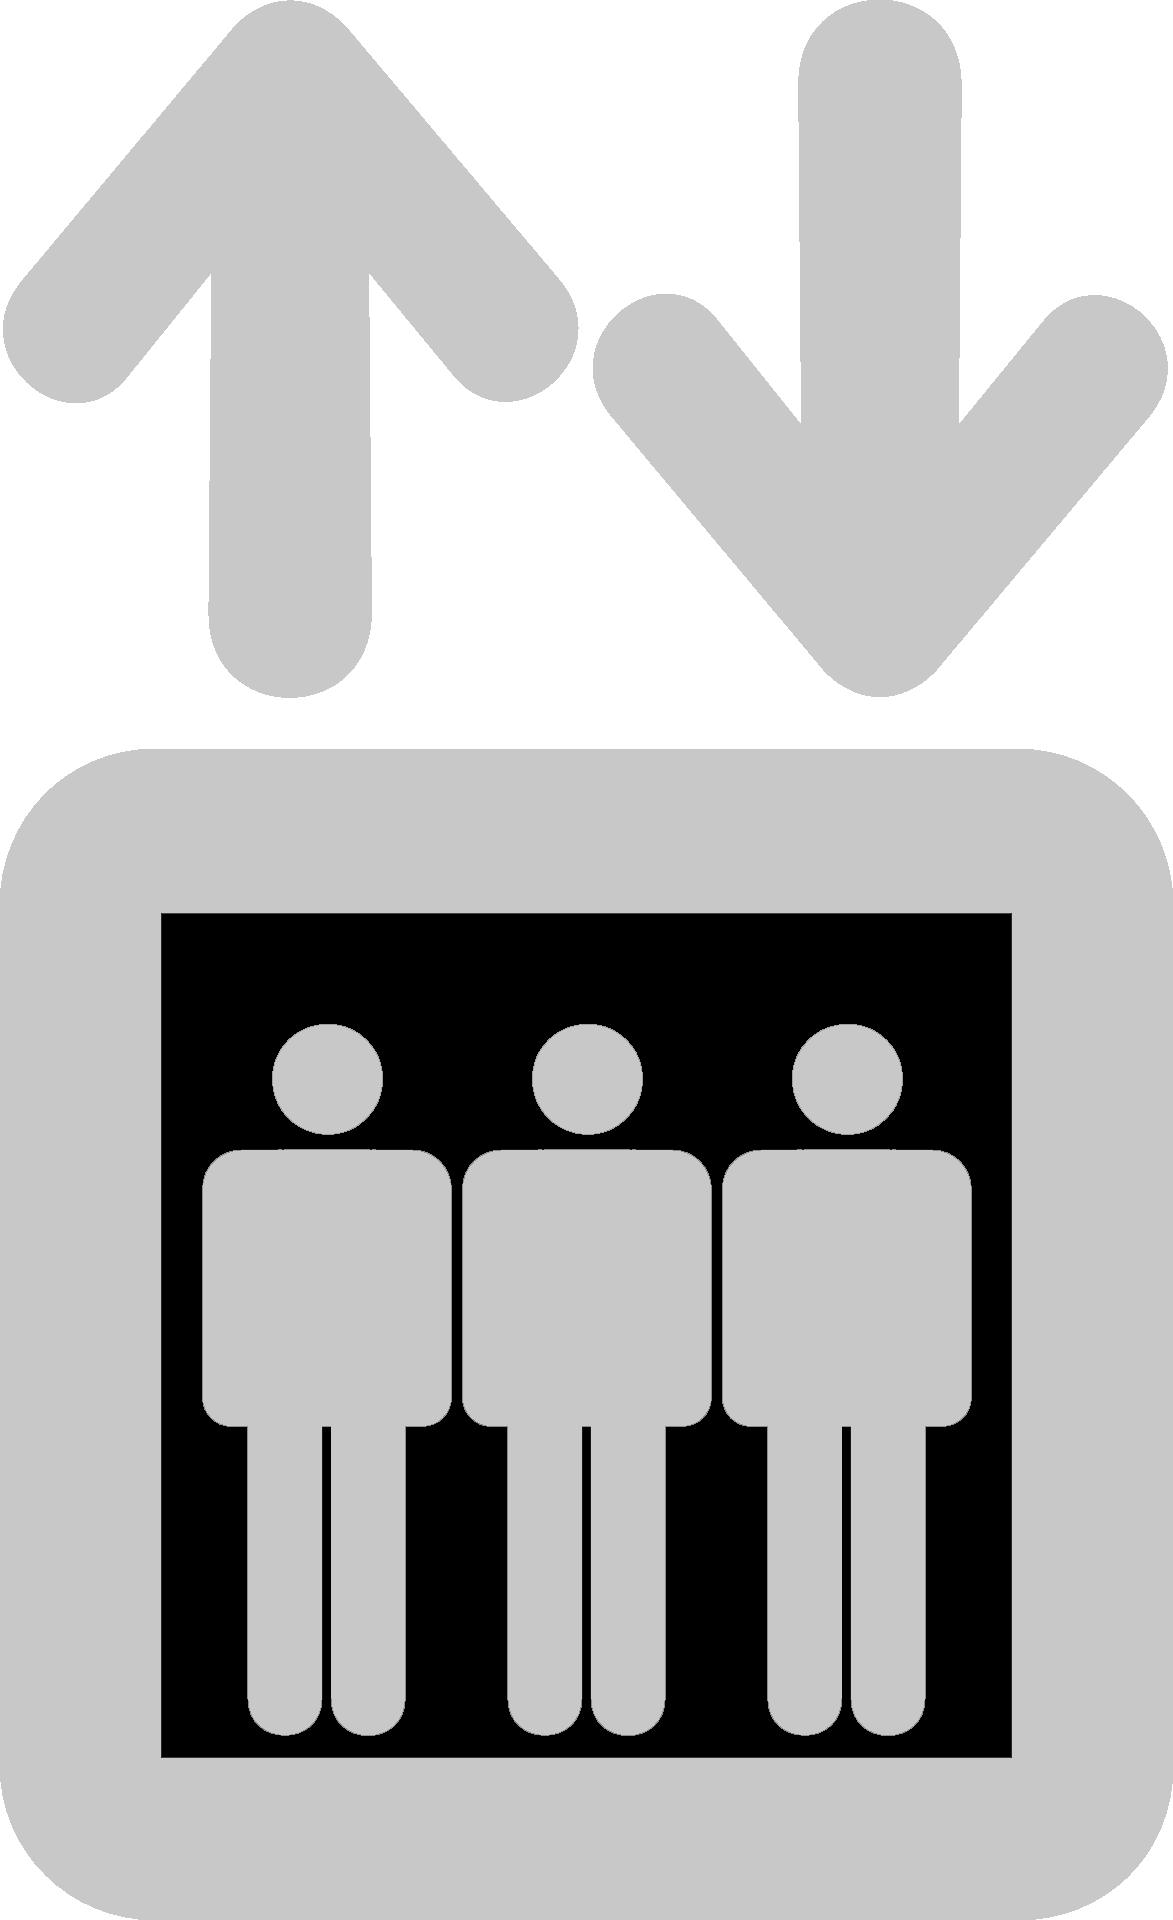
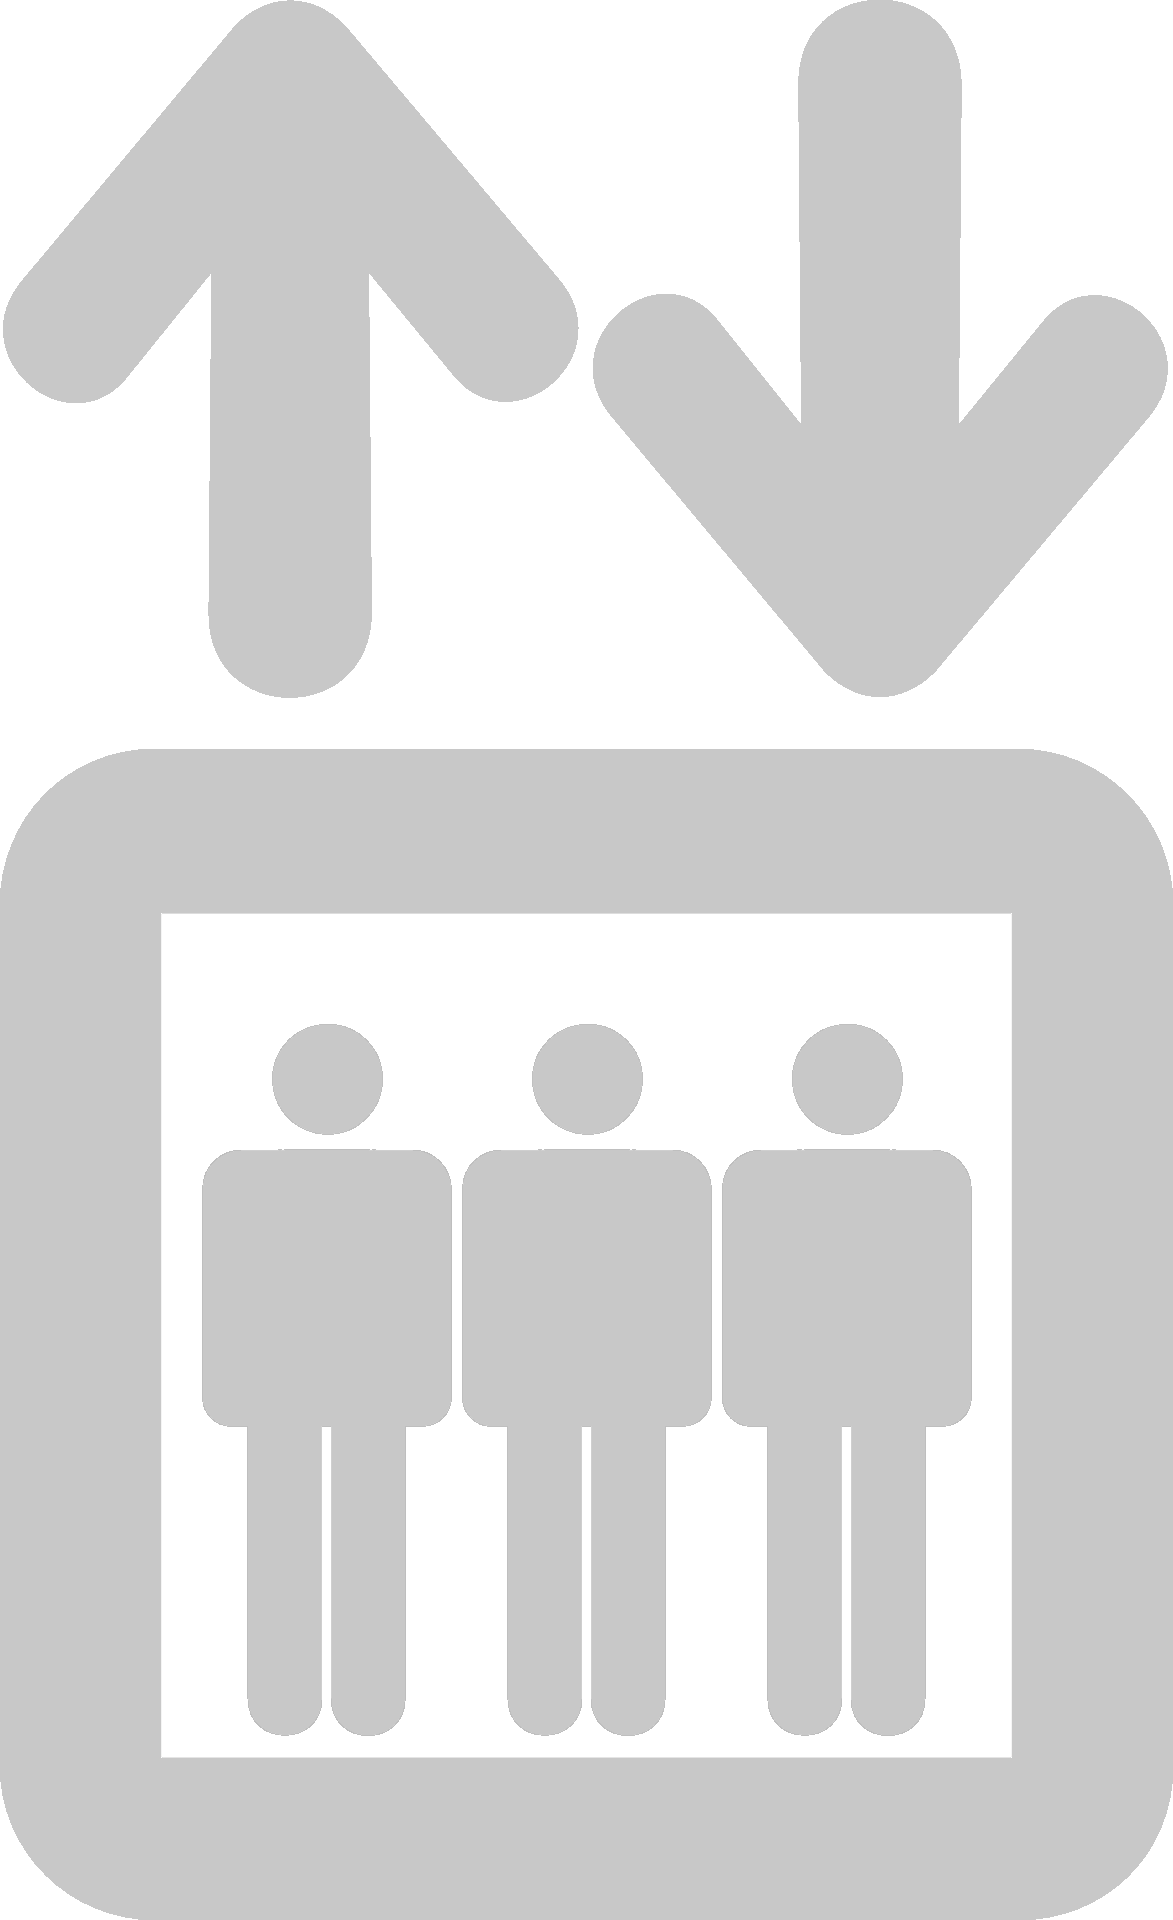
ajustar iconos oscuros

Changed region(s): [[0.1228, 0.4688, 0.89, 0.9375]]

diff --git a/zgzEmergencyMap/static/js/script.js b/zgzEmergencyMap/static/js/script.js
@@ -364,7 +364,7 @@ function selectIcon(incident) {
         DEFAULT: '/zgzEmergencyMap/static/markerIcons/defaultIcon.png',
         FIRE: '/zgzEmergencyMap/static/markerIcons/fireIcon.png',
         TREE: '/zgzEmergencyMap/static/markerIcons/treeIcon.png',
-        TRAFFIC: '/zgzEmergencyMap/static/markerIcons/trafficIcon.png', 
+        TRAFFIC: '/zgzEmergencyMap/static/markerIcons/trafficIconDark.png', 
         ELEVATOR: '/zgzEmergencyMap/static/markerIcons/elevatorIconDark.png',
         CONSTRUCTION: '/zgzEmergencyMap/static/markerIcons/buildIcon.png',
         ANIMALS: '/zgzEmergencyMap/static/markerIcons/animalIconDark.png',
@@ -386,30 +386,6 @@ function selectIcon(incident) {
     return defaultIcon;
 }
 
-// function selectIcon(incident) {
-//     const icons = {
-//         DEFAULT: '/zgzEmergencyMap/static/markerIcons/defaultIcon.png',
-//         FIRE: '/zgzEmergencyMap/static/markerIcons/fireIcon.png',
-//         TREE: '/zgzEmergencyMap/static/markerIcons/treeIcon.png',
-//         TRAFFIC: '/zgzEmergencyMap/static/markerIcons/trafficIcon.png', 
-//         ELEVATOR: '/zgzEmergencyMap/static/markerIcons/elevatorIcon.png',
-//         CONSTRUCTION: '/zgzEmergencyMap/static/markerIcons/buildIcon.png',
-//         ANIMALS: '/zgzEmergencyMap/static/markerIcons/animalIcon.png',
-//         DANGEROUSPRODUCT: '/zgzEmergencyMap/static/markerIcons/dangerProductIcon.png',
-//         BLOCKED: '/zgzEmergencyMap/static/markerIcons/blockedIcon.png',
-//         WATERDRAINAGE: '/zgzEmergencyMap/static/markerIcons/waterIcon.png',
-//     };
-
-//     const defaultIcon = icons.DEFAULT;
-    
-//     for (const [key, value] of Object.entries(icons)) {
-//         if (incident.includes(key)) {
-//             return value;
-//         }
-//     }
-
-//     return defaultIcon;
-// }
 
 
 
